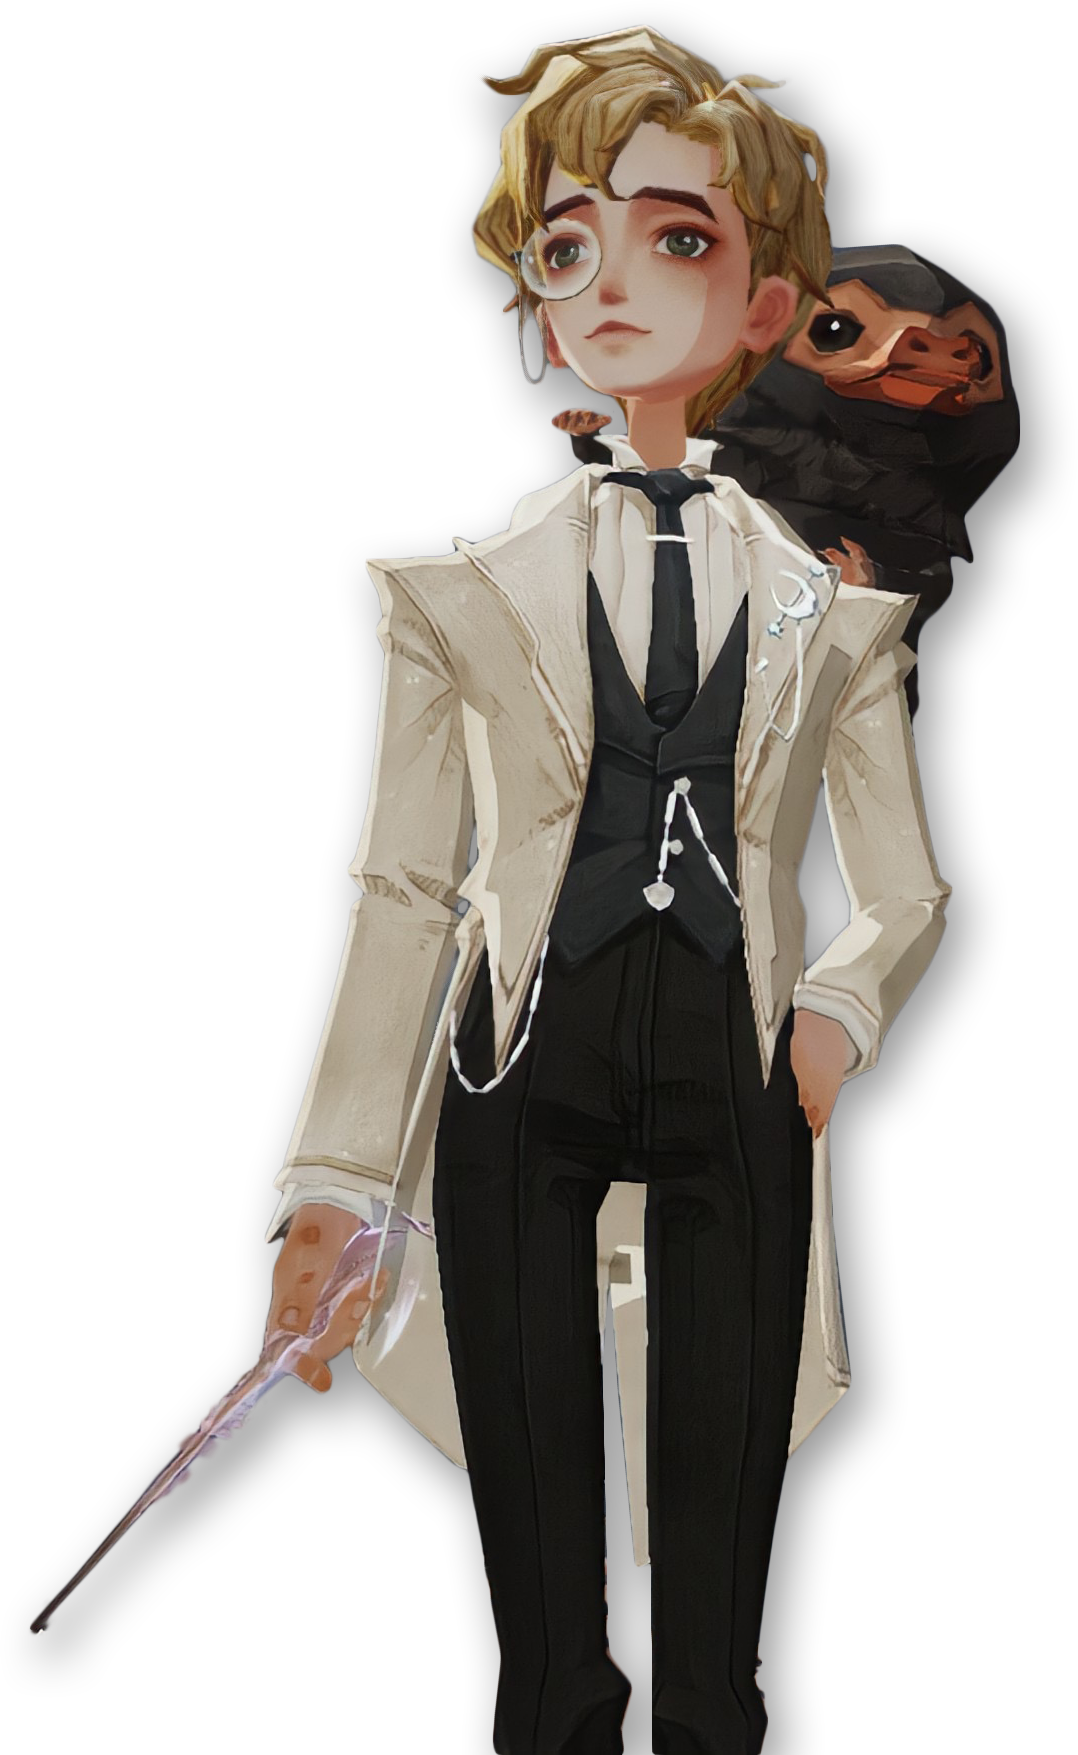
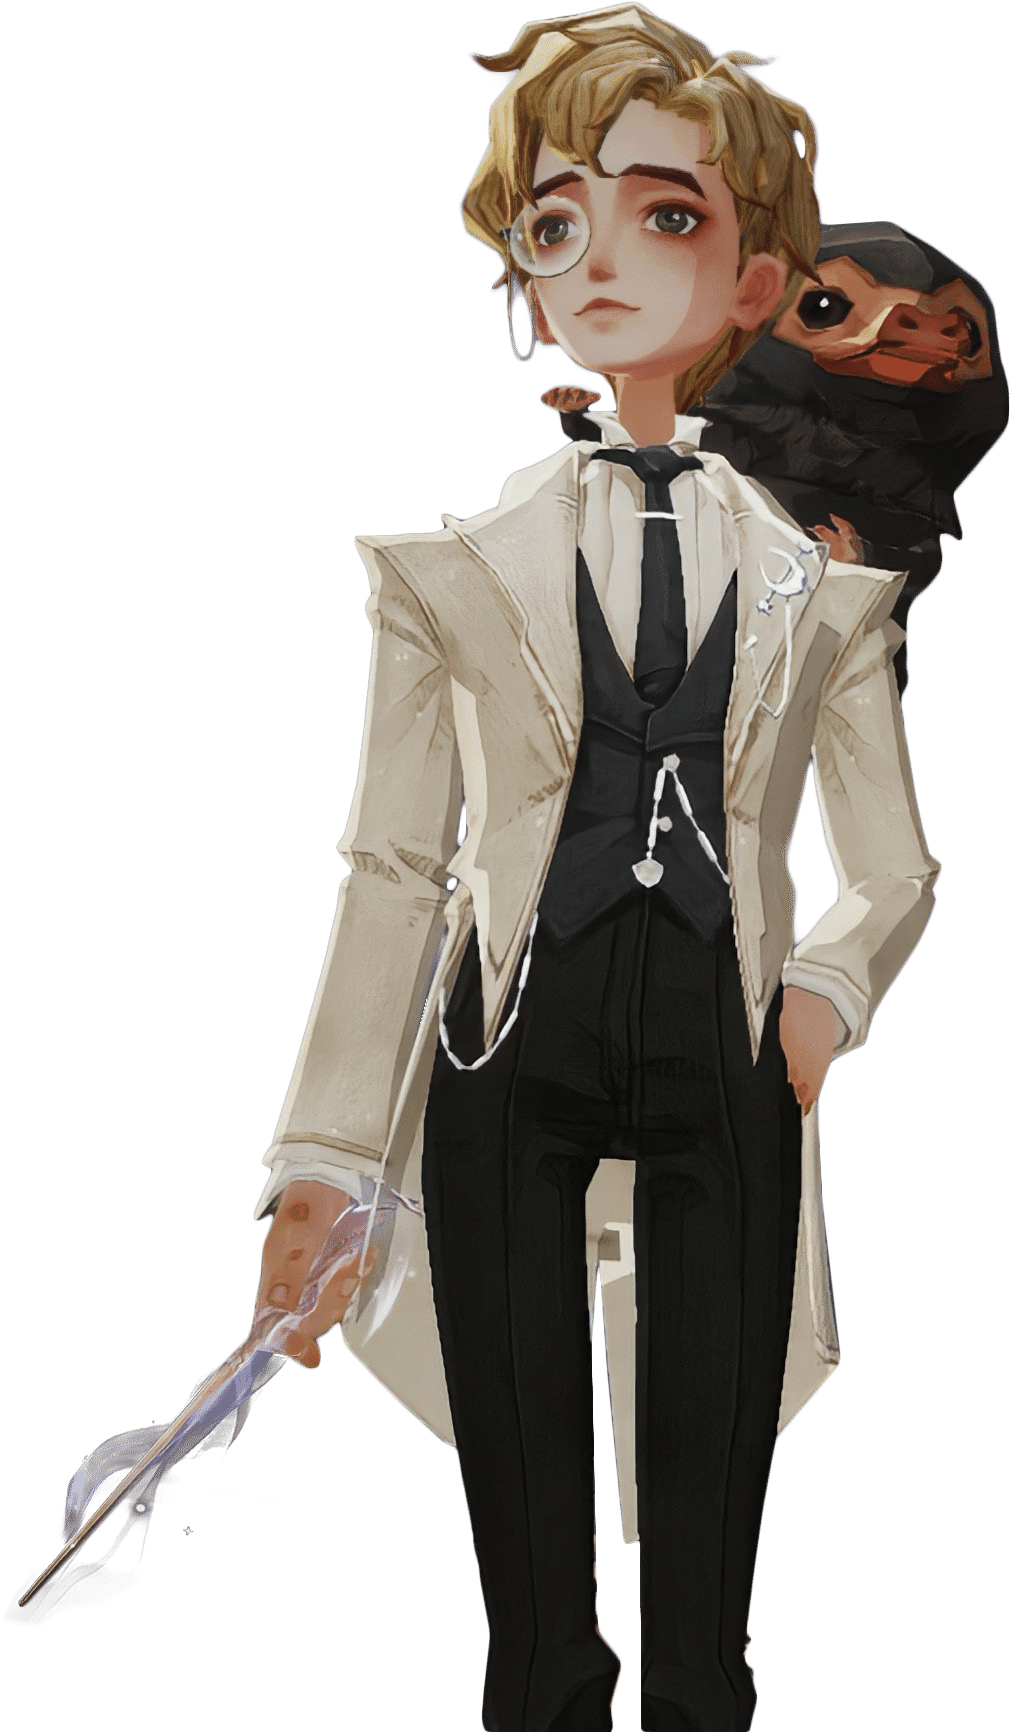
use csv for outfit data

Changed region(s): [[0.0, 0.0, 1.0, 1.0], [0.5525, 0.6547, 0.6446, 1.0]]

diff --git a/src/components/hero.tsx b/src/components/hero.tsx
@@ -1,6 +1,6 @@
 /** @jsx jsx */
 import * as React from "react";
-import { useEffect, useState } from "react";
+import { useState } from "react";
 import { GatsbyImage, IGatsbyImageData, StaticImage } from "gatsby-plugin-image";
 import tw from "twin.macro";
 import { jsx } from "@emotion/react";
@@ -18,22 +18,23 @@ const Dot = ({ isActive }) => (
 const Line = tw.div`h-[1px] bg-white opacity-20 w-[25vw] mr-8`;
 
 const Outfits = () => {
-  const outfits = useStaticQuery<OutfitsStaticQuery>(graphql`{
-  allFile(filter: {name: {glob: "outfit*"}}) {
+  const outfits = useStaticQuery<OutfitsStaticQuery>(graphql`
+  {
+  allOutfit {
     nodes {
-      name
-      childImageSharp {
-        gatsbyImageData(placeholder:NONE)
+      id
+      left
+      image {
+        childImageSharp {
+          gatsbyImageData(placeholder:NONE)
+        }
       }
     }
   }
-}`);
+}
+  `);
 
-  // const [counter, setCounter] = useState(0);
-  // const active = counter % outfits.allFile.nodes.length;
-
-  const N = outfits.allFile.nodes.length;
-
+  const N = outfits.allOutfit.nodes.length;
   const [active, setActive] = useState(0);
   const swipeable = useSwipeable({
     onSwipedLeft: () => setActive(x => Math.min(N - 1, x + 1)),
@@ -45,7 +46,7 @@ const Outfits = () => {
     <div tw="bottom-0  md:m-5 h-[32px] flex items-center absolute z-20 ">
       <Line />
       {
-        outfits.allFile.nodes.map((_, idx) =>
+        outfits.allOutfit.nodes.map((_, idx) =>
           <Dot key={idx} isActive={idx == active} />)
       }
     </div>
@@ -56,13 +57,13 @@ const Outfits = () => {
       });
     }}>
       {
-        outfits.allFile.nodes.map((x, idx) =>
+        outfits.allOutfit.nodes.map((x, idx) =>
           <GatsbyImage
-            key={x.name}
-            image={x.childImageSharp.gatsbyImageData}
-            // tw="absolute bottom-0 z-20 h-5/6 left-1/2"
+            key={x.id}
+            image={x.image.childImageSharp.gatsbyImageData}
             css={[
-              tw`absolute bottom-0 z-20 h-5/6 left-1/2 transition-opacity drop-shadow-lg`,
+              tw`absolute bottom-0 z-20 h-5/6 left-1/2 transition-opacity drop-shadow-2xl`,
+              { left: x.left ?? "50%" },
               active == idx ? tw`opacity-100` : tw`opacity-0`]
             }
             imgClassName="drop-shadow-lg"
@@ -78,26 +79,23 @@ const Outfits = () => {
 
 const Hero = () => {
   return <div tw="relative">
-    <Outfits></Outfits>
+    <Outfits />
     <StaticImage
       objectFit="cover"
       tw="aspect-[4/3] lg:aspect-video"
       src="../images/hufflepuff-bg-optimized.jpeg"
       alt="" />
-    {/*<StaticImage*/}
-    {/*  placeholder="none"*/}
-    {/*  tw="absolute bottom-0 z-20 h-5/6 left-1/2"*/}
-    {/*  objectFit="contain"*/}
-    {/*  objectPosition="left bottom"*/}
-    {/*  src="../../content/assets/outfits/outfit-4.png" alt="" />*/}
   </div>;
 };
 
 type OutfitsStaticQuery = {
-  allFile: {
+  allOutfit: {
     nodes: {
-      name: string
-      childImageSharp: { gatsbyImageData: IGatsbyImageData }
+      id: string
+      left: string | undefined
+      image: {
+        childImageSharp: { gatsbyImageData: IGatsbyImageData }
+      }
     }[]
   }
 }

diff --git a/src/pages/index.tsx b/src/pages/index.tsx
@@ -2,8 +2,8 @@
 import { graphql } from "gatsby";
 import { IGatsbyImageData, StaticImage } from "gatsby-plugin-image";
 import * as React from "react";
-import { jsx } from '@emotion/react'
-import tw from "twin.macro";
+import { jsx } from "@emotion/react";
+import tw, { GlobalStyles } from "twin.macro";
 import Hero from "../components/hero";
 import Cover from "../components/cover";
 import { AnimatedBorder } from "../components/animated-border";
@@ -43,6 +43,8 @@ const Gallery = ({ data }: Props) => {
   const projects = data.allProject.nodes;
   return (
     <div tw="relative">
+      {/*https://github.com/ben-rogerson/twin.macro/issues/590*/}
+      <GlobalStyles />
       <Hero />
       <StaticImage
         tw="absolute top-1 left-2 w-1/5"
@@ -53,10 +55,10 @@ const Gallery = ({ data }: Props) => {
       <div tw="grid grid-cols-1 md:grid-cols-2">
         {
           projects.map(p =>
-              <Cover key={p.slug} cover={p.cover} slug={p.slug} title={p.title} />
+            <Cover key={p.slug} cover={p.cover} slug={p.slug} title={p.title} />
           )
         }
-        <Footer isFullSpan={projects.length % 2 == 0} key="footer"/>
+        <Footer isFullSpan={projects.length % 2 == 0} key="footer" />
       </div>
     </div>
   );

diff --git a/gatsby-config.js b/gatsby-config.js
@@ -17,6 +17,12 @@ module.exports = {
             },
         },
         {
+            resolve: `gatsby-transformer-csv`,
+            options: {
+                typeName: ({ node }) => node.name.charAt(0).toUpperCase() + node.name.slice(1),
+            },
+        },
+        {
             resolve: `gatsby-source-filesystem`,
             options: {
                 name: assetsPath,

diff --git a/src/components/avatar.tsx b/src/components/avatar.tsx
@@ -27,7 +27,6 @@ export default (props) => {
   return avatar?.file?.childImageSharp?.gatsbyImageData && (
     <Avatar image={avatar.file.childImageSharp.gatsbyImageData} alt="Avatar" {...props} />
   );
-  // return <Avatar image={avatar} alt="" {...props} />;
 }
 
 
